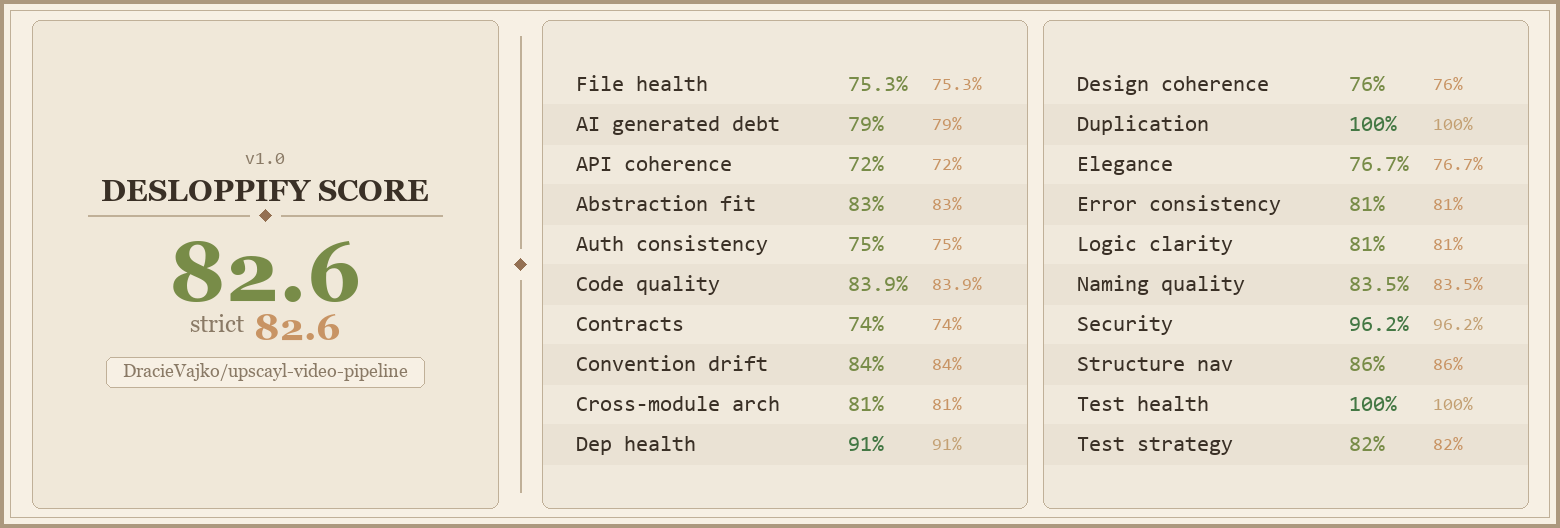
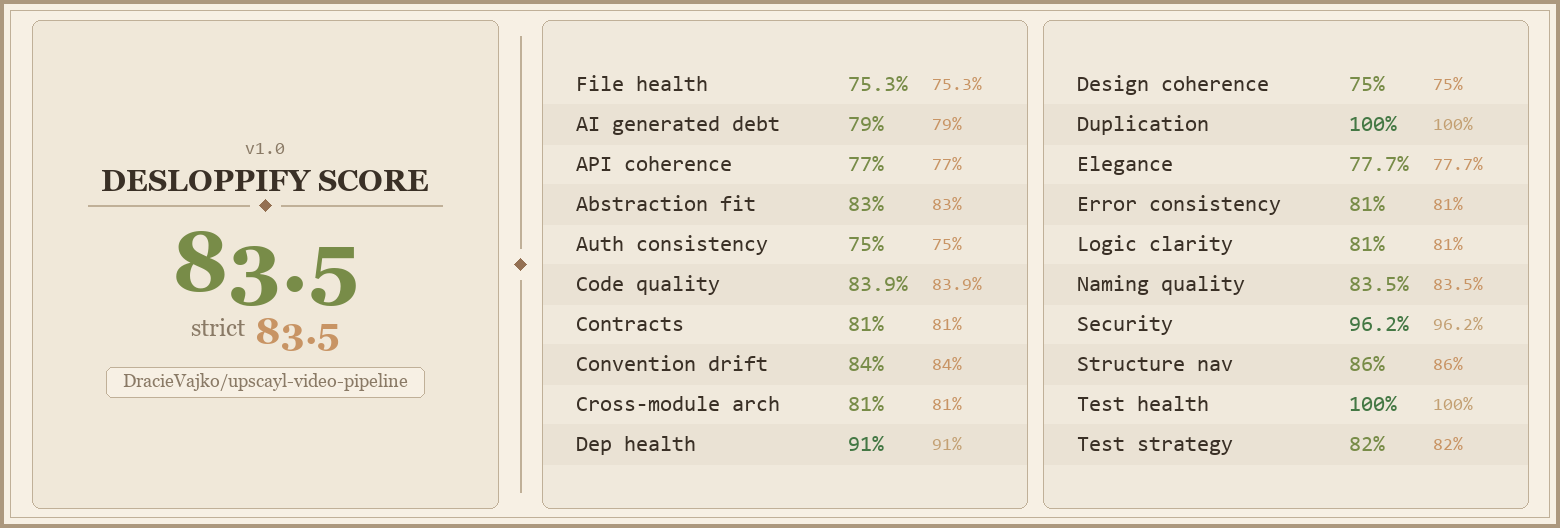
refactor(v1): is_nonempty_file replaces seven inline size checks; extract_frames builds once
- frames.is_nonempty_file owns the 'regular file with content' predicate used by pipeline/workspace/frames

- extract_frames constructs the split command through one inner builder and loops decode candidates instead of duplicating the argv

- 204 tests pass

diff --git a/src/upscayl_video/frames.py b/src/upscayl_video/frames.py
@@ -112,6 +112,14 @@ def scan_frames(directory: Path, *, recursive: bool = False) -> dict[int, list[P
     return found
 
 
+def is_nonempty_file(path: Path) -> bool:
+    """True when the path is a regular file with real content."""
+    try:
+        return path.is_file() and path.stat().st_size > 0
+    except OSError:
+        return False
+
+
 def count_contiguous_frames(directory: Path, extension: str) -> int:
     frames = scan_frames(directory, recursive=False)
     wanted = extension.lower().lstrip(".")
@@ -121,8 +129,7 @@ def count_contiguous_frames(directory: Path, extension: str) -> int:
         paths = [
             path
             for path in frames.get(index, [])
-            if path.is_file()
-            and path.stat().st_size > 0
+            if is_nonempty_file(path)
             and path.suffix.lower().lstrip(".") == wanted
         ]
         if not paths:
@@ -142,7 +149,7 @@ def validate_frame_set(
     selected: dict[int, Path] = {}
 
     for index, paths in raw.items():
-        valid = [path for path in paths if path.is_file() and path.stat().st_size > 0]
+        valid = [path for path in paths if is_nonempty_file(path)]
         if not valid:
             continue
         if len(valid) > 1:
@@ -429,7 +436,7 @@ def extract_frames(
         1
         for paths in frames.values()
         for path in paths
-        if path.is_file() and path.stat().st_size > 0
+        if is_nonempty_file(path)
     )
     existing = count_contiguous_frames(job.frames_dir, "jpg" if fmt == "jpg" else "png")
     if total_files > existing:
@@ -448,57 +455,39 @@ def extract_frames(
     first_frame = existing + 1
     adjusted_start = start + (existing / fps if existing else 0.0)
     remaining = expected - existing
-    command = build_split_command(
-        job.source_path,
-        job,
-        media,
-        start=adjusted_start,
-        duration=remaining / fps,
-        first_frame=first_frame,
-        fmt=fmt,
-        jpeg_quality=jpeg_quality,
-        png_compression=png_compression,
-        denoise=denoise,
-        tonemap=tonemap,
-        decode=chosen,
-        frame_limit=remaining,
-    )
-    command[0] = str(config.ffmpeg)
+    def build(decode_mode: str) -> list[str]:
+        command = build_split_command(
+            job.source_path,
+            job,
+            media,
+            start=adjusted_start,
+            duration=remaining / fps,
+            first_frame=first_frame,
+            fmt=fmt,
+            jpeg_quality=jpeg_quality,
+            png_compression=png_compression,
+            denoise=denoise,
+            tonemap=tonemap,
+            decode=decode_mode,
+            frame_limit=remaining,
+        )
+        command[0] = str(config.ffmpeg)
+        return command
+
     if dry_run:
-        logger.info(" ".join(command))
+        logger.info(" ".join(build(chosen)))
         return expected
 
     job.frames_dir.mkdir(parents=True, exist_ok=True)
-    try:
-        run_command(command, logger=logger)
-    except CommandError as exc:
-        if chosen == "gpu":
-            logger.warn("GPU frame extraction failed; retrying with CPU")
-            job.set("decode", "cpu")
-            command = build_split_command(
-                job.source_path,
-                job,
-                media,
-                start=adjusted_start,
-                duration=remaining / fps,
-                first_frame=first_frame,
-                fmt=fmt,
-                jpeg_quality=jpeg_quality,
-                png_compression=png_compression,
-                denoise=denoise,
-                tonemap=tonemap,
-                decode="cpu",
-                frame_limit=remaining,
-            )
-            command[0] = str(config.ffmpeg)
-            try:
-                run_command(command, logger=logger)
-            except CommandError as retry_exc:
-                raise EncodeError(
-                    f"Frame extraction failed: {job.source_path}",
-                    hint=retry_exc.stderr_tail or str(retry_exc),
-                ) from retry_exc
-        else:
+    for candidate in (("gpu", "cpu") if chosen == "gpu" else (chosen,)):
+        try:
+            run_command(build(candidate), logger=logger)
+            break
+        except CommandError as exc:
+            if candidate == "gpu":
+                logger.warn("GPU frame extraction failed; retrying with CPU")
+                job.set("decode", "cpu")
+                continue
             raise EncodeError(
                 f"Frame extraction failed: {job.source_path}",
                 hint=exc.stderr_tail or str(exc),

diff --git a/src/upscayl_video/pipeline.py b/src/upscayl_video/pipeline.py
@@ -47,6 +47,7 @@ from .frames import (
     count_contiguous_frames,
     extract_frames,
     frame_pattern,
+    is_nonempty_file,
     scan_frames,
     validate_frame_set,
 )
@@ -218,7 +219,7 @@ def _parse_fps_override(value: str) -> tuple[int, int]:
 
 def _has_frames(job: Job) -> bool:
     return any(
-        path.is_file() and path.stat().st_size > 0
+        is_nonempty_file(path)
         for paths in scan_frames(job.frames_dir, recursive=False).values()
         for path in paths
     )
@@ -709,7 +710,7 @@ def _run_chunked(
             segment = job.chunks_dir / f"chunk_{chunk.index:04d}.{extension}"
             marker = job.path / f".done_chunk_{chunk.index:04d}"
             segments.append(segment)
-            if marker.is_file() and segment.is_file() and segment.stat().st_size > 0:
+            if marker.is_file() and is_nonempty_file(segment):
                 progress.update(chunk.frame_count)
                 continue
             chunk_dir = job.chunks_dir / f"chunk_{chunk.index:04d}"
@@ -1258,7 +1259,7 @@ def _assemble_chunked_job(
         segment = None
         for suffix in (".ts", ".mov"):
             candidate = job.chunks_dir / f"chunk_{chunk.index:04d}{suffix}"
-            if candidate.is_file() and candidate.stat().st_size > 0:
+            if is_nonempty_file(candidate):
                 segment = candidate
                 break
         marker = job.path / f".done_chunk_{chunk.index:04d}"
@@ -1459,7 +1460,7 @@ def run_assemble(
                 )
             raw_frames = scan_frames(upscaled_dir, recursive=True)
             if not any(
-                path.is_file() and path.stat().st_size > 0
+                is_nonempty_file(path)
                 for paths in raw_frames.values()
                 for path in paths
             ):
@@ -1645,7 +1646,7 @@ def run_status(config: Config, logger: Logger, *, verbose: bool = False) -> None
             1
             for paths in scan_frames(job.upscaled_dir, recursive=True).values()
             for path in paths
-            if path.is_file() and path.stat().st_size > 0
+            if is_nonempty_file(path)
         )
         outputs = sorted(
             path

diff --git a/src/upscayl_video/workspace.py b/src/upscayl_video/workspace.py
@@ -14,7 +14,7 @@ from typing import Sequence
 from .config import Config
 from .encode import EncodeOptions
 from .errors import PipelineError, UsageError, ValidationError
-from .frames import scan_frames
+from .frames import is_nonempty_file, scan_frames
 from .job import Job
 from .pipeline import SplitOptions, find_jobs, run_assemble, run_split
 from .probe import (
@@ -333,7 +333,7 @@ def _upscaled_count(job: Job) -> int:
     return sum(
         len(paths)
         for paths in scan_frames(job.upscaled_dir, recursive=True).values()
-        if any(path.is_file() and path.stat().st_size > 0 for path in paths)
+        if any(is_nonempty_file(path) for path in paths)
     )
 
 
